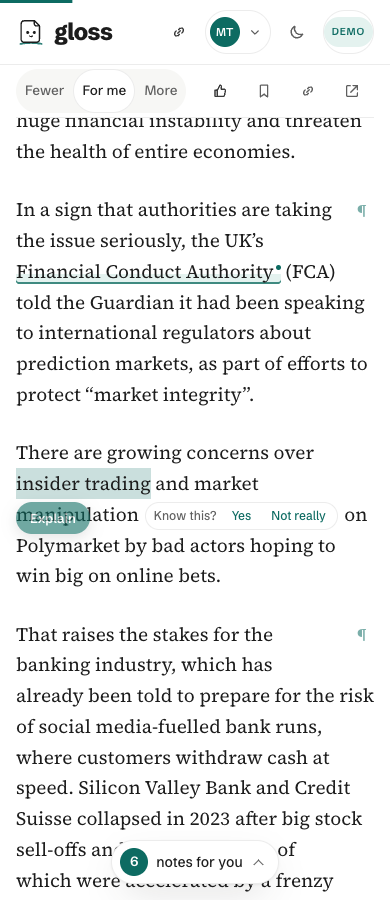
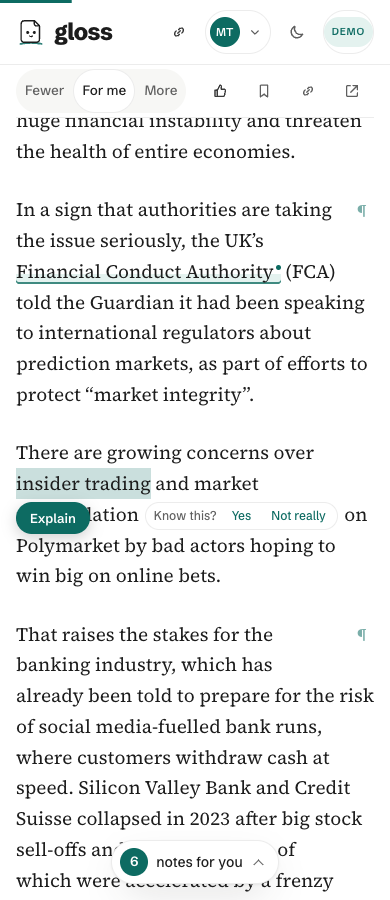
docs: decision 70 PR B live record (API 00043) (#68)

Changed region(s): [[0.0308, 0.56, 0.2462, 0.5911]]

diff --git a/docs/STATUS.md b/docs/STATUS.md
@@ -1,6 +1,6 @@
 # ReadLayer — project status and handoff
 
-Last updated: 2026-10-17 (IST): **Decision 70 PR A merged (#66) and live (API `readlayer-api-00042-mlv`, web): "For you" only after 10 engaged articles (no toggle before: "Your pick · X"), ¶ notes counted and listed, landing "article" → "content"; live check passed as the trader (§38). PR B (explain a selection) built and harness-passed on `d70-select`, in review (cut-off 23:00 IST).** **Decision 69: #61, #62, #63 merged and live (API `readlayer-api-00040-rxz`, web). Story items lead and the end list spreads over ideas (live: passed); C2 warm at startup not met (≈ 7.7 s, the idle warm-up stalls without CPU; Sourabh: leave it). On `d69-for-you`: B4 ("More on this story" for pages opened from our own suggestions) and the "For you" analogy label, in review; then API, then web (§37).** **Decision 67 done and live (PR 1 #51, PR 2 #52; API 00035, then 00036 after the Tavily key change; warm-ups done, §35). Decision 68 (onboarding: knowledge from who you are, taste from what you pick): PR A (card chips once the notes are ready) merged #56 and live; PR B (field and country knowledge, screen 2 taste only with a Quick check at its bottom, read / watch / listen) merged #57 and live (API 00037, web); PR C (K4b: the Quick check's six terms all at once, any order) merged #59 and live (API 00038, web) (§36). The whole video is re-recorded with a new script after decision 68.** **Decisions 65 (readiness from stored articles' key ideas) and 66 (one-word sense keys need model confirmation; the PIP mislink; a patent-law prerequisite) merged (#48) and live: PIP article re-linked, API `readlayer-api-00033-bdt`, web deployed (`index-DgFbKyUn.js`, both sites); live check passed (§34). Oct 16 items pulled into today: demo feeds re-seeded on the fixed code, 5 recordings and 16 first-page articles pre-ingested (§34).** **Feed quality (decision 64) merged (#46) and live: API `readlayer-api-00032-fls`, live check passed (§33): For you names only unambiguous concepts, drops mixed-script, non-English and non-news items; rows naming a junk concept 23 → 0 of 32, read-first lines 10 → 5 (all sensible). Submission target unchanged: by Oct 18 (the deadline has ≥ 4 days of slack). Oct 16 seeding: persona templates re-seeded and demo feeds re-seeded today (§33); the rest resumes on the fixed feeds.** **Landing v2 concept at `/v2` (decision 63) merged (#44) and live (§32): view-only, inert, noindex, `/` unchanged; remove before submitting.** **README refreshed for the public repo (`docs/plans/readme-refresh.md`; Oct 16 item done early).** **Decision 62 built on `gloss-address` (§31): new address `glossreader.web.app` (site created; `gloss`, `gloss-reader` taken), extension 0.8.2 with Open in Gloss on YouTube, gitleaks clean over all history and PR heads, the account name out of tracked files. **Merged (#39) and live**: API `readlayer-api-00031-84x`, release `extension-v0.8.2`, web on both sites (`index-B0WvjYHJ.js`), live check passed (§31). Sourabh signed in with Google there; **repo public** (links checked signed out). Decision 62 done.** **Landing refresh (decision 61) merged (#38) and live (web `index-C8hhvJGX.js`; live check passed, §30). Decision 62 (a "gloss" web address) planned for Oct 15.** **Readiness on For you (decision 60) merged (#37) and live: API revision `readlayer-api-00030-4xb`, web deployed (`index-Bv4pOIf-.js`); live check passed (§29). Next: landing refresh (decision 61).** **M9 part 3 (cost / cache / latency report, monitoring dashboard, hardening checks; decisions 58–59) merged (#36; scripts, docs, dashboard: no deploy needed). M9 complete; open: Sourabh's audit of the 30 precision verdicts; next Oct 16 (seeding, README refresh, video, deck).** **M9 part 2 (same-page duplicates merged, known wrong prerequisites filtered, fresh precision 27/30) merged (#35) and live: API revision `readlayer-api-00029-9lp` (§27). Open: Sourabh's audit of the 30 precision verdicts.** **M9 part 1 (growth slots taken when used, pages that missed growth grow on reopen) merged (#34) and live: API revision `readlayer-api-00028-7zs`, web deployed, release `extension-v0.8.1` (2026-10-14, §26). Live-checked: Sourabh reopened his empty extension pages with 0.8.1, "Great extention worked".** **Media (decision 54) merged (#32) and live (API revision `readlayer-api-00027-q2s`, web deployed, 2026-10-14; §24): YouTube videos up to 10 minutes and Apple Podcasts episodes up to 12. Follow-up (decision 55: youtube.com player, a choice in the feed) merged (#33) and live (web deployed 2026-10-14, §25); live-checked by Sourabh.** Earlier, 2026-10-13: **API revision 00026 (settings only, 2026-10-13): growth caps 60 per reader and 300 a day (decision 53).** **M8-local merged (#30) and live** (API revision 00025, web
+Last updated: 2026-10-17 (IST): **Decision 70 PR A merged (#66) and live (API `readlayer-api-00042-mlv`, web): "For you" only after 10 engaged articles (no toggle before: "Your pick · X"), ¶ notes counted and listed, landing "article" → "content"; live check passed as the trader (§38). PR B (explain a selection) merged (#67) and live (API `readlayer-api-00043-qjz`, web); live check passed.** **Decision 69: #61, #62, #63 merged and live (API `readlayer-api-00040-rxz`, web). Story items lead and the end list spreads over ideas (live: passed); C2 warm at startup not met (≈ 7.7 s, the idle warm-up stalls without CPU; Sourabh: leave it). On `d69-for-you`: B4 ("More on this story" for pages opened from our own suggestions) and the "For you" analogy label, in review; then API, then web (§37).** **Decision 67 done and live (PR 1 #51, PR 2 #52; API 00035, then 00036 after the Tavily key change; warm-ups done, §35). Decision 68 (onboarding: knowledge from who you are, taste from what you pick): PR A (card chips once the notes are ready) merged #56 and live; PR B (field and country knowledge, screen 2 taste only with a Quick check at its bottom, read / watch / listen) merged #57 and live (API 00037, web); PR C (K4b: the Quick check's six terms all at once, any order) merged #59 and live (API 00038, web) (§36). The whole video is re-recorded with a new script after decision 68.** **Decisions 65 (readiness from stored articles' key ideas) and 66 (one-word sense keys need model confirmation; the PIP mislink; a patent-law prerequisite) merged (#48) and live: PIP article re-linked, API `readlayer-api-00033-bdt`, web deployed (`index-DgFbKyUn.js`, both sites); live check passed (§34). Oct 16 items pulled into today: demo feeds re-seeded on the fixed code, 5 recordings and 16 first-page articles pre-ingested (§34).** **Feed quality (decision 64) merged (#46) and live: API `readlayer-api-00032-fls`, live check passed (§33): For you names only unambiguous concepts, drops mixed-script, non-English and non-news items; rows naming a junk concept 23 → 0 of 32, read-first lines 10 → 5 (all sensible). Submission target unchanged: by Oct 18 (the deadline has ≥ 4 days of slack). Oct 16 seeding: persona templates re-seeded and demo feeds re-seeded today (§33); the rest resumes on the fixed feeds.** **Landing v2 concept at `/v2` (decision 63) merged (#44) and live (§32): view-only, inert, noindex, `/` unchanged; remove before submitting.** **README refreshed for the public repo (`docs/plans/readme-refresh.md`; Oct 16 item done early).** **Decision 62 built on `gloss-address` (§31): new address `glossreader.web.app` (site created; `gloss`, `gloss-reader` taken), extension 0.8.2 with Open in Gloss on YouTube, gitleaks clean over all history and PR heads, the account name out of tracked files. **Merged (#39) and live**: API `readlayer-api-00031-84x`, release `extension-v0.8.2`, web on both sites (`index-B0WvjYHJ.js`), live check passed (§31). Sourabh signed in with Google there; **repo public** (links checked signed out). Decision 62 done.** **Landing refresh (decision 61) merged (#38) and live (web `index-C8hhvJGX.js`; live check passed, §30). Decision 62 (a "gloss" web address) planned for Oct 15.** **Readiness on For you (decision 60) merged (#37) and live: API revision `readlayer-api-00030-4xb`, web deployed (`index-Bv4pOIf-.js`); live check passed (§29). Next: landing refresh (decision 61).** **M9 part 3 (cost / cache / latency report, monitoring dashboard, hardening checks; decisions 58–59) merged (#36; scripts, docs, dashboard: no deploy needed). M9 complete; open: Sourabh's audit of the 30 precision verdicts; next Oct 16 (seeding, README refresh, video, deck).** **M9 part 2 (same-page duplicates merged, known wrong prerequisites filtered, fresh precision 27/30) merged (#35) and live: API revision `readlayer-api-00029-9lp` (§27). Open: Sourabh's audit of the 30 precision verdicts.** **M9 part 1 (growth slots taken when used, pages that missed growth grow on reopen) merged (#34) and live: API revision `readlayer-api-00028-7zs`, web deployed, release `extension-v0.8.1` (2026-10-14, §26). Live-checked: Sourabh reopened his empty extension pages with 0.8.1, "Great extention worked".** **Media (decision 54) merged (#32) and live (API revision `readlayer-api-00027-q2s`, web deployed, 2026-10-14; §24): YouTube videos up to 10 minutes and Apple Podcasts episodes up to 12. Follow-up (decision 55: youtube.com player, a choice in the feed) merged (#33) and live (web deployed 2026-10-14, §25); live-checked by Sourabh.** Earlier, 2026-10-13: **API revision 00026 (settings only, 2026-10-13): growth caps 60 per reader and 300 a day (decision 53).** **M8-local merged (#30) and live** (API revision 00025, web
 deployed; live check passed, §22): the Gloss extension, unpacked, activeTab only. Open: Sourabh's
 manual Gmail and bank-login refusal check (§9); the extension zip is released (`extension-v0.8.0`). **Decision 50** merged (#28, #29) and
 live (API revision 00024; scheduled runs confirmed, §21). Before that: Decision 48 (#27),
@@ -1463,4 +1463,6 @@ Plans `docs/plans/readiness-content.md` (plan-reviewer REVISE 11 → APPROVE) an
 | PR B harness (`tools/shots/d70_select.py`, emulators, trader on the Guardian article, one demo reader deleted, 204; `docs/evidence/d70/select.json`, `d70-select-*.png`) | Select "insider trading" (extracted, not marked for the trader) → Explain (a `<button>` in the paragraph, on screen) → its verified card ("Your pick · Cricket", "Like placing bets with advance knowledge of a fixed over…"); the margin **6 → 7 notes**. "growing concerns" (no term) → "What this paragraph is saying". Keyboard: focus + a real Enter → the "Market manipulation" card. 390 px: the button on screen, the card opens as the bottom sheet. First run: the button hid when the script scrolled the paragraph into view → changed so it follows the selection on scroll (test added) |
 | Deviations from the plan (PR B) | **Scroll:** the button follows the selection instead of hiding (touch selection often nudges the scroll; the harness's scroll hid it). **Density:** asked notes are kept per article and reader, not cleared on a density change (the hook doesn't know the density; a note the reader asked for stays useful). **Keyboard:** the harness focused the button and pressed a real Enter; the button sits at the end of the paragraph, so Tab reaches it after any marks later in that paragraph, not necessarily "right after the selection". **Touch:** checked at 390 px with a programmatic selection; the touch-only `selectionchange` path is unit-tested only, not on a device. milestone-reviewer round 1 fixes: a pending open is dropped after an article or persona switch; "Explain" matches only notes actually placed (opening an unplaced one did nothing); the unplaceable → paragraph-card branch is a tested pure step (`afterPlaced`); the button sits under the sheet's scrim |
 | PR B harness spend | $0.15 over 46 paid model calls (all harness runs since the restart on `d70-select`, Vertex, capped harness budget); 4 lookups, no model call in any |
+| PR B merged and live (2026-10-17 ≈ 21:00 IST, before the 23:00 cut-off) | #67, milestone-reviewer FIX → SHIP, CI green, squash-merged (f0c4664). Account checked; from clean `main`: `make deploy-api` → **`readlayer-api-00043-qjz`**, then `make deploy-web` (both sites) |
+| PR B live check (`D70_LIVE=1 tools/shots/d70_select.py`, one demo reader, deleted, 204; `docs/evidence/d70/select_live.json`, `d70-select-*.png` re-shot) | The first end-to-end run of the final code. Trader on the Guardian article: "insider trading" → Explain → its verified card ("Your pick · Cricket"), margin **6 → 7**; "growing concerns" → the paragraph card; keyboard Enter → the "Market manipulation" card; 390 px: button on screen and **opaque**, the card opens as the bottom sheet; the "Know this?" chip on "market manipulation" renders cleanly beside it |
 

diff --git a/docs/AUTOPILOT_LOG.md b/docs/AUTOPILOT_LOG.md
@@ -2298,4 +2298,9 @@ changed, live URLs and numbers. Newest entries at the bottom of each milestone.
    → live (`D70_LIVE=1 tools/shots/d70_select.py`). Dropped and recorded if not merged by 23:00 IST.
 2. Sourabh's own account (read-only engaged count, his yes) and the two videos' counts.
 3. `/v2` removal, gitleaks, deck link, submit; video re-record.
+- PR B #67 merged, API `readlayer-api-00043-qjz` + web; live selection check passed (§38).
+
+### Next steps (resume here, in order)
+1. Sourabh's own account (read-only engaged count, his yes) and the two videos' counts.
+2. `/v2` removal, gitleaks, deck link, submit; video re-record.
 
